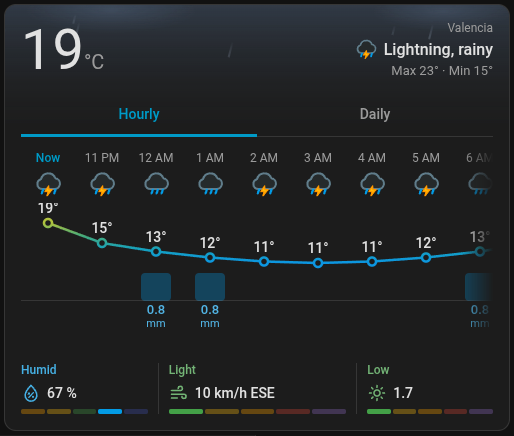
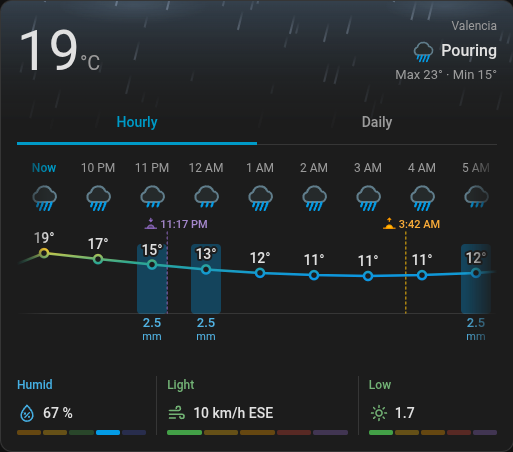
docs: updated README

diff --git a/README.md b/README.md
@@ -20,6 +20,7 @@ A Home Assistant Lovelace card that shows the weather forecast at a glance: a te
 - [Usage](#usage)
 - [Options](#options)
 - [Features](#features)
+  - [Sunrise and sunset](#sunrise-and-sunset)
   - [Camera](#camera)
   - [Alerts](#alerts)
   - [Festivities](#festivities)
@@ -121,11 +122,30 @@ Thresholds are in your Home Assistant temperature unit. Actions support `more-in
 - Humidity, wind and UV with a level label and a 5-segment scale.
 - Temperature colours with configurable cold and hot thresholds.
 - Your own sensors for temperature, humidity, wind or UV.
+- [Sunrise and sunset](#sunrise-and-sunset) on the hourly chart, from Home Assistant's Sun integration or Sun2.
 - [Camera](#camera): a tab or an expandable strip, with live stream when the camera supports it.
 - [Weather alerts](#alerts) from Meteoalarm, NWS, Environment Canada or any sensor.
 - Animated weather effects and [seasonal decoration](#festivities).
 - Visual editor for every option (YAML works too). Follows your theme, locale and units.
 - Languages: English, Spanish, Dutch, German, French, Italian, Polish, Swedish, Danish, Norwegian and Portuguese.
+
+### Sunrise and sunset
+
+On the hourly chart, a dashed line with its time marks each sunrise and sunset, and clear hours after dark show the moon instead of the sun. Both come from entities you choose; without them the card draws neither.
+
+```yaml
+# Home Assistant's Sun integration
+sun_entity: sun.sun
+
+# Or any other source whose state is a timestamp, such as Sun2
+sunrise_entity: sensor.home_next_rising
+sunset_entity: sensor.home_next_setting
+```
+
+- **One Sun entity per Home Assistant.** The Sun integration follows the Home Assistant location. For places elsewhere, use [Sun2](https://github.com/pnbruckner/ha-sun2) (one location per config entry), a template sensor or any entity with a timestamp state.
+- **Precedence.** `sunrise_entity` and `sunset_entity` override the matching value of `sun_entity`, which can be left out.
+- **Both events recommended.** With one of them and no `sun_entity`, the day or night of the hours beyond it is not known.
+- Polar day or night (an event more than 26 hours away) is ignored.
 
 ### Camera
 
